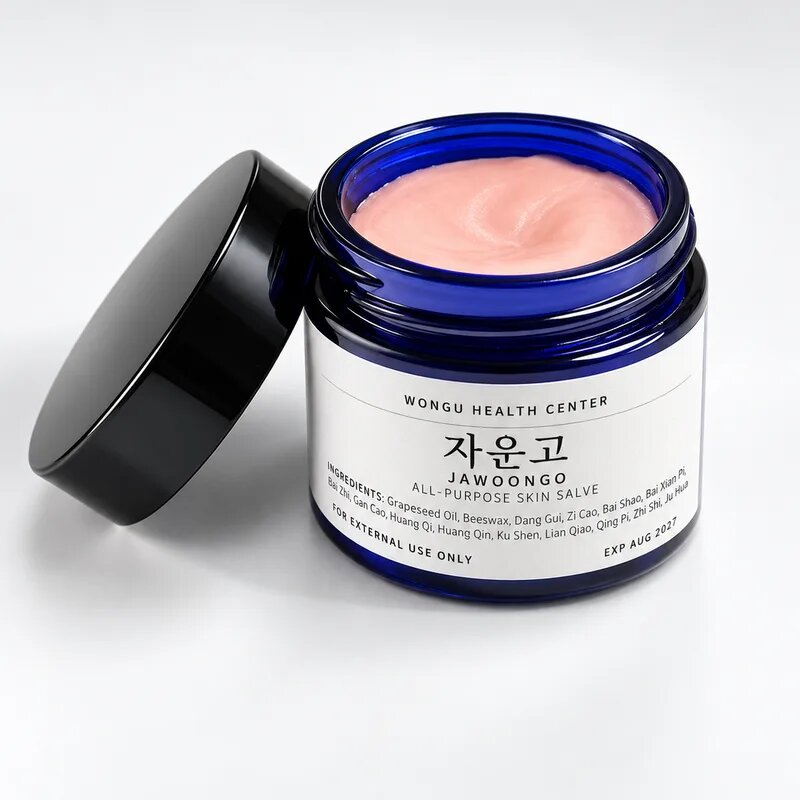
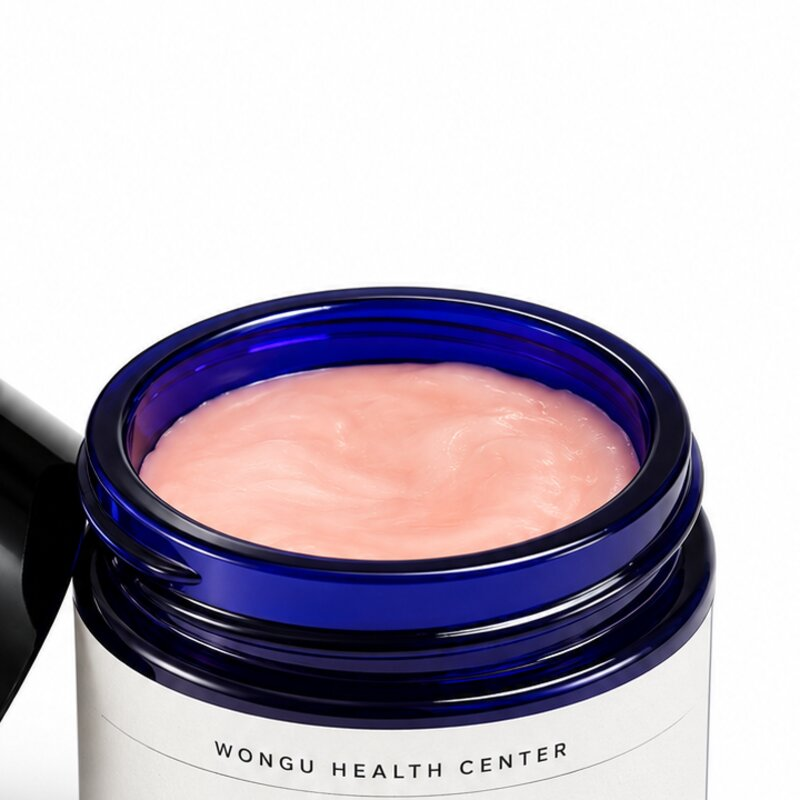
Show only the blue Jawoongo jar on the products page
The jar is blue glass, so the black closed-jar photo is replaced with
the full blue jar, and the second thumbnail is now a close-up of the
balm from the blue jar. Alt text and thumbnail labels updated.

diff --git a/products.html b/products.html
@@ -211,12 +211,12 @@
           </div>
           <div class="product-gallery-set" data-variant="jar">
             <div class="product-slides">
-              <picture class="product-slide"><source type="image/webp" srcset="/images/product-jawoongo-jar-480.webp 480w, /images/product-jawoongo-jar.webp 800w" sizes="(max-width: 900px) calc(100vw - 48px), 560px"><img src="/images/product-jawoongo-jar.jpg" width="800" height="800" alt="Jawoongo jar with the Wongu Health Center label" loading="lazy" decoding="async"></picture>
-              <picture class="product-slide"><source type="image/webp" srcset="/images/product-jawoongo-jar-open-480.webp 480w, /images/product-jawoongo-jar-open.webp 800w" sizes="(max-width: 900px) calc(100vw - 48px), 560px"><img src="/images/product-jawoongo-jar-open.jpg" width="800" height="800" alt="Open jar of Jawoongo showing the soft pink balm" loading="lazy" decoding="async"></picture>
+              <picture class="product-slide"><source type="image/webp" srcset="/images/product-jawoongo-jar-480.webp 480w, /images/product-jawoongo-jar.webp 800w" sizes="(max-width: 900px) calc(100vw - 48px), 560px"><img src="/images/product-jawoongo-jar.jpg" width="800" height="800" alt="Open blue glass jar of Jawoongo with the Wongu Health Center label" loading="lazy" decoding="async"></picture>
+              <picture class="product-slide"><source type="image/webp" srcset="/images/product-jawoongo-jar-open-480.webp 480w, /images/product-jawoongo-jar-open.webp 800w" sizes="(max-width: 900px) calc(100vw - 48px), 560px"><img src="/images/product-jawoongo-jar-open.jpg" width="800" height="800" alt="Close-up of the soft pink Jawoongo balm" loading="lazy" decoding="async"></picture>
             </div>
             <div class="product-thumbs" role="group" aria-label="Jar photos" hidden>
-              <button type="button" class="product-thumb" aria-label="Show closed jar"><img src="/images/product-jawoongo-jar-480.webp" width="480" height="480" alt="" loading="lazy" decoding="async"></button>
-              <button type="button" class="product-thumb" aria-label="Show open jar"><img src="/images/product-jawoongo-jar-open-480.webp" width="480" height="480" alt="" loading="lazy" decoding="async"></button>
+              <button type="button" class="product-thumb" aria-label="Show the jar"><img src="/images/product-jawoongo-jar-480.webp" width="480" height="480" alt="" loading="lazy" decoding="async"></button>
+              <button type="button" class="product-thumb" aria-label="Show a close-up of the balm"><img src="/images/product-jawoongo-jar-open-480.webp" width="480" height="480" alt="" loading="lazy" decoding="async"></button>
             </div>
           </div>
         </div>
